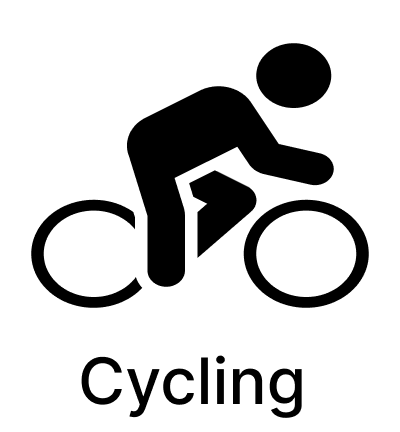
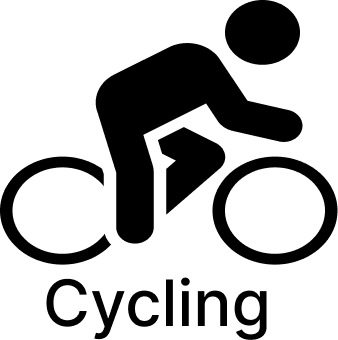
correção do tamanho dos icones

Changed region(s): [[0.0, 0.0, 1.0, 1.0]]

diff --git a/index.html b/index.html
@@ -17,23 +17,19 @@
     <!-- Início card 1 -->
     <div class="card1">
         <div class="slide">
-            <h2>What is Darwin</h2>
-            <h3>The Darwin's purpose is to collect and analyze data from athletes for studies on their performance in physical activities. 
-                Additionally, based on the conclusions of these studies, activity plans will be proposed for these athletes that can be used to direct their training and enable them to achieve specific goals. 
-                The studies will be conducted observing consolidated scientific and ethical criteria.</h3>
+            <h2>What is Darwin?</h2>
+            <h3>The purpose of Darwin is to collect and analyze data from athletes for studies on their performance in high-performance sports. Additionally, based on the conclusions of these studies, activity plans will be proposed for these athletes that can be used to direct their training and enable them to achieve specific goals. The studies will be conducted observing consolidated scientific and ethical criteria.</h3>
         </div>
         <div class="slide">
-            <h2>Analysis of training data</h2>
-            <h3>Darwin aims to collect and analyze athlete data to enhance performance in endurance activities. 
-                Our insights lead to customized training plans that help athletes achieve their goals, all while upholding strict scientific and ethical standards. 
-                We chose Training Peaks for its extensive array of structured data variables and because we are also firsthand users of the application.</h3>
+            <h2>Analysis of Training Data</h2>
+            <h3>Darwin aims to collect and analyze athlete data to enhance performance in endurance activities. Our insights lead to customized training plans that help athletes achieve their goals, always upholding high scientific and ethical standards.</h3>
         </div>
     </div>
     <!-- Fim card 1 -->
 
     <!-- Início card 2 -->
     <div class="card2">
-        <h2> Achieve your goals with Darwin</h2>
+        <h2> Achieve Your Goals With Darwin</h2>
         <div class="flexIcons">
             <div class="icons">
                 <!-- Icone ciclista -->
@@ -60,17 +56,12 @@
         <img src="./images/watch.jpg" alt="watch">
         <div class="flexSlide">
             <div class="slide">
-                <h2>Personalized analysis</h2>
-                <h3>Darwin represents a significant advancement in the customization of training strategies for high-performance athletes. 
-                    Through a data-driven approach, our project provides personalized analysis of performance indicators. 
-                    This enables the creation of specific training and rest plans, guided by clearly defined goals and tailored to the individual needs of each athlete. 
-                    With the integration of predictive and adaptive analyses, Darwin seeks to maximize athletes' performance potential, providing optimized preparation aimed at surpassing previously established limits.</h3>
+                <h2>Personalized Analysis</h2>
+                <h3>Darwin represents a significant advancement in the customization of training strategies for high-performance athletes. Through a data-driven approach, our project provides personalized analysis of performance indicators. This enables the creation of specific training and rest plans, guided by clearly defined goals and tailored to the individual needs of each athlete. With the integration of predictive and adaptive analyses, Darwin seeks to maximize athletes’ performance potential, providing individualized preparation for each athlete.</h3>
             </div>
             <div class="slide">
                 <h2>Why Training Peaks?</h2>
-                <h3>Darwin aims to collect and analyze athlete data to enhance performance in endurance activities. 
-                    Our insights lead to customized training plans that help athletes achieve their goals, all while upholding strict scientific and ethical standards. 
-                    We chose Training Peaks for its extensive array of structured data variables and because we are also firsthand users of the application.</h3>
+                <h3>Darwin aims to collect and analyze athlete data to enhance performance in endurance activities. Our insights lead to customized training plans that help athletes achieve their goals, always upholding high scientific and ethical standards. We chose Training Peaks for its extensive array of structured data variables and because we are also firsthand users of the application.</h3>
             </div>
         </div>
     </div>
@@ -78,7 +69,7 @@
 
     <!-- Início footer -->
     <footer>
-        GitHub Repository
+        <a href="https://github.com/Rafael188Lacerda/Darwin">Github Repository</a>
     </footer>
     <!-- Fim footer -->
 </body>

diff --git a/style.css b/style.css
@@ -9,6 +9,7 @@ h1 {
     color: #000000;
     margin-left: 5vh;
     text-shadow: 1vh 1vh 2vh rgba(0, 0, 0, 0.3);
+    text-align: center;
 }
 
 h2 {
@@ -23,13 +24,18 @@ h3 {
     padding: 2vh;
 }
 
-
+h4 {
+    font-size: 2vh;
+    margin: 0;
+    padding: auto;
+}
 /* Fim tipografia */
 
 /* Início header */
 header {
     display: flex;
     align-items: center;
+    background-color: #D9D9D9;
 }
 
 header img {
@@ -87,19 +93,19 @@ header img {
 
 .card3 img {
     width: 50%;
+    height: 50vh;
     border-radius: 20px;
+    margin: 5vh;
 }
 /* Fim card 3 */
 
 /* Início footer */
 footer {
-    background-color: #001427;
-    color: white;
     text-align: left;
     font-size: 18px;
-    margin: 5px;
     padding: 10px;
-    display: flex;
+    background-color: #D9D9D9;
+    text-align: center;
 }
 /* Fim footer */
 
